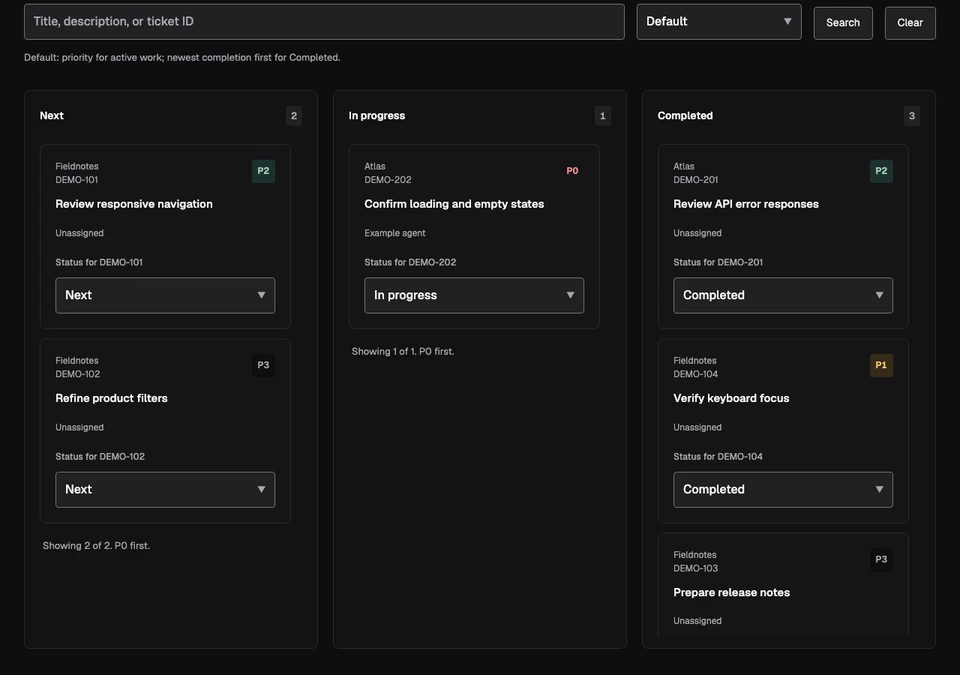
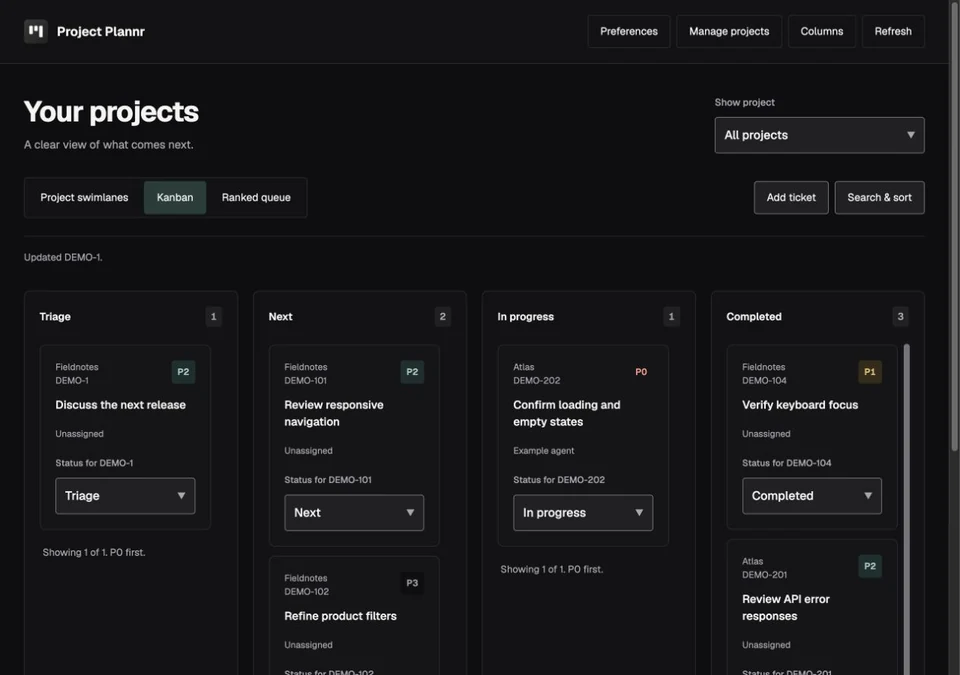
Refresh workflow documentation and fictional app previews

diff --git a/docs/app-stylr-exceptions.md b/docs/app-stylr-exceptions.md
@@ -36,3 +36,13 @@ The product retains its charcoal/mint identity and uses a local candidate of the
 ## App Stylr v1.4.1 visual refresh
 
 The shared adapters and Geist assets come from immutable source 6fbc524f07ed7aa7db9c8593bf8116b9440937bc. Sage/dark/Normal and Comfortable remain the defaults, with existing product preferences preserved. Shared geometry uses 4px controls/buttons, 8px cards and 12px dialogs. Feedback stays on neutral surfaces with semantic text/icons. Existing foreground glyphs use the palette-independent Graphite base, with scalable SVG masters and directly rendered high-resolution exports. Keep the incumbent layout, keyboard behavior, auth, data, integrations and platform-specific controls intact.
+
+## Workflow column controls
+
+Column settings retain the v1.4.1 pinned adapter and semantic roles. The current
+App Stylr v1.4.3 form-control guidance was rechecked; the intervening patches do
+not change visual tokens. Product-owned layout uses 24px desktop panel padding
+and 20px on phones, visible labels, a separate category selector and Enabled
+checkbox, neutral dividers, and the Sage Save action. Phone controls were rendered
+at 16px text and approximately 48px height, with no horizontal document overflow.
+The shared adapter was not edited.

diff --git a/README.md b/README.md
@@ -16,9 +16,9 @@ activity in the same workspace.
 
 ## Preview
 
-<img src="docs/images/app-preview.webp" width="640" alt="Project Plannr showing fictional Fieldnotes and Atlas projects in a Kanban board with ticket priorities and status controls">
+<img src="docs/images/app-preview.gif" width="640" alt="Project Plannr moving fictional work through Triage, Next, In progress, and Completed before switching to Simple workflow">
 
-[Watch the interface preview](docs/images/app-preview.gif). Fictional demonstration data. [App overview](https://kylbutlr.com/apps/project-plannr).
+Fictional demonstration data. [Still image](docs/images/app-preview.webp) · [App overview](https://kylbutlr.com/apps/project-plannr) · [Capture provenance](docs/images/app-preview.provenance.json).
 
 ## Availability
 
